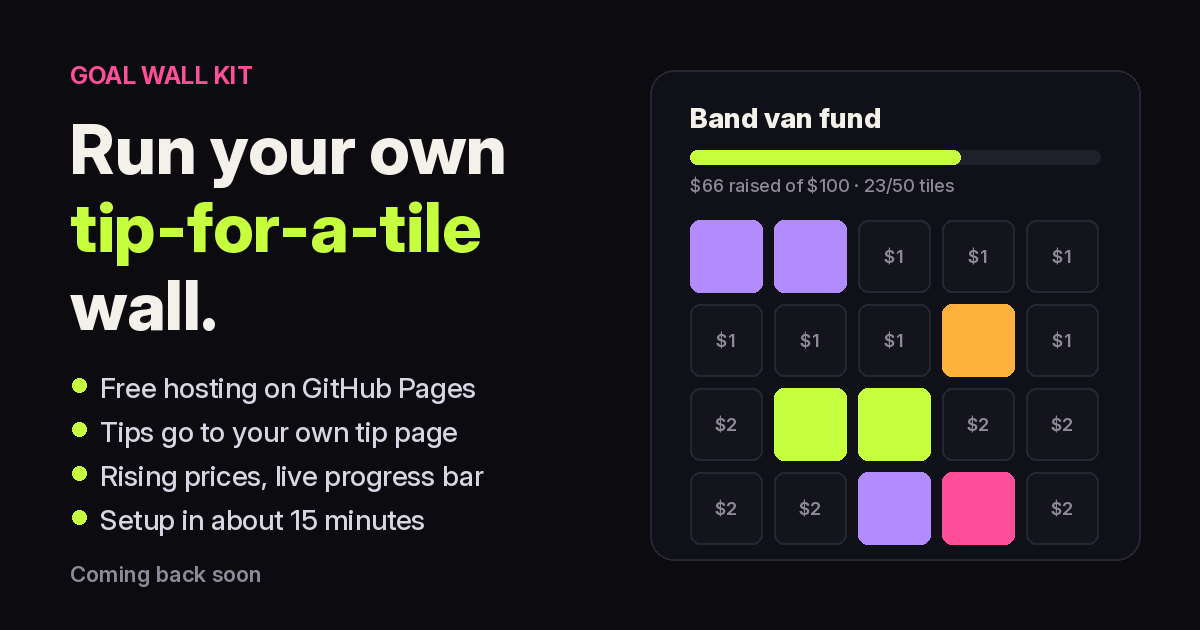
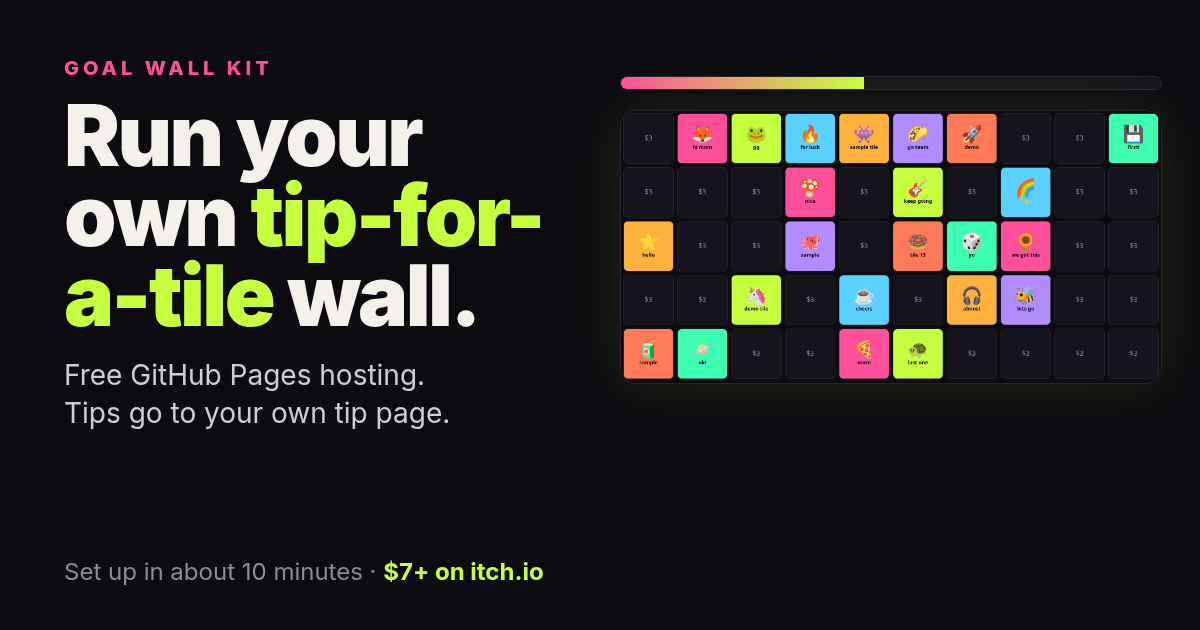
Kit: Get it on itch.io (placeholder https://secretwall.itch.io/goal-wall-kit), new cover and real demo screenshot

diff --git a/kit/index.html b/kit/index.html
@@ -4,7 +4,7 @@
 <meta charset="utf-8">
 <meta name="viewport" content="width=device-width,initial-scale=1">
 <title>Goal Wall Kit: a tip-for-a-tile fundraising wall you can run for free</title>
-<meta name="description" content="The code behind the $130 Wall, cleaned up for your club, stream, band or classroom. Free GitHub Pages hosting, payments through your own tip page. No server, no monthly fee. Coming back soon.">
+<meta name="description" content="The code behind the $130 Wall, cleaned up for your club, stream, band or classroom. Free GitHub Pages hosting, payments through your own tip page. No server, no monthly fee. $7, pay what you want, on itch.io.">
 <meta property="og:title" content="Goal Wall Kit: run your own tip-for-a-tile wall">
 <meta property="og:description" content="50 tiles, rising prices, a live progress bar. Free hosting on GitHub Pages, payments through your own tip page.">
 <meta property="og:image" content="https://dmoney081.github.io/the-130-wall/kit/cover.png">
@@ -26,11 +26,12 @@ ol li{margin:6px 0}code{background:#20202b;padding:1px 5px;border-radius:5px}
   <h1>Run your own <span class="hl">tip-for-a-tile</span> wall.</h1>
   <p>The code behind <a href="../">the $130 Wall</a>, cleaned up so anyone can use it. You set a goal and a deadline. Supporters pick a tile, choose an emoji, a color and a short message, and tip on <b>your</b> tip page. Prices step up as tiles sell, and the progress bar fills up for everyone to see.</p>
   <img class="shot" src="cover.png" alt="The Goal Wall Kit: a grid of colorful tiles with a progress bar">
-  <div class="row"><span class="price">Coming back soon <small>was $7, pay what you want</small></span><a class="btn ghost" href="../">See it running live</a></div>
-  <p class="small">The kit is off sale for now while checkout moves to a new home. Want a heads-up when it's back? Email <a href="mailto:secretwall@mail.grokbot.com?subject=Goal%20Wall%20Kit">secretwall@mail.grokbot.com</a>.</p>
+  <div class="row"><span class="price">$7 <small>or more, pay what you want</small></span><a class="btn" href="https://secretwall.itch.io/goal-wall-kit" target="_blank" rel="noopener">Get it on itch.io</a><a class="btn ghost" href="../">See it running live</a></div>
+  <p class="small">Instant download. itch.io handles checkout and delivers the zip.</p>
+  <img class="shot" src="shot-wall.png" alt="The kit's demo page: a goal headline, a progress bar and a grid of tiles with sample emoji">
   <div class="feat">
     <div><b>Free hosting</b>GitHub Pages. No server, no database, nothing to renew.</div>
-    <div><b>Your payments</b>Tips go straight to your own tip page (Ko-fi, itch.io, PayPal.me or similar). The kit never touches money.</div>
+    <div><b>Your payments</b>Tips go straight to your own tip page (a tip jar, PayPal.me, a donate page or similar). The kit never touches money.</div>
     <div><b>Rising prices</b>First 10 tiles at $1, then +$1 every 10 sales. Every number is set in <code>config.json</code>.</div>
     <div><b>Live progress</b>Progress bar, countdown, sold-out tiles and a list of every tile and tip.</div>
     <div><b>Claim codes</b>Supporters send a one-line claim code with their tile details, so matching a tip to a tile takes seconds.</div>
@@ -38,18 +39,19 @@ ol li{margin:6px 0}code{background:#20202b;padding:1px 5px;border-radius:5px}
   </div>
   <h2>Good for</h2>
   <p>A club trip. A stream goal. A band's van repair. A classroom project. A game jam prize pool. Anything with a number and a date.</p>
-  <h2>Setup in about 15 minutes</h2>
+  <h2>Setup in about 10 minutes</h2>
   <ol>
     <li>Upload the files to a new GitHub repo.</li>
-    <li>Edit <code>config.json</code>: goal, deadline, payment link, grid size, prices.</li>
+    <li>Edit <code>config.json</code>: goal, deadline, tip page link, grid size, prices.</li>
     <li>Replace the lines marked <code>EDIT ME</code> in <code>index.html</code> with your own words.</li>
     <li>Turn on GitHub Pages. Share the link.</li>
   </ol>
-  <p class="small">You need a free GitHub account and a tip or payment page (for example Ko-fi or itch.io) with PayPal or Stripe connected. Python is optional: it powers the helper script, but you can edit <code>board.json</code> by hand instead.</p>
+  <p class="small">You need a free GitHub account and a tip page of your own (any tip jar, PayPal.me link or donate page). Python is optional: it powers the helper script, but you can edit <code>board.json</code> by hand instead.</p>
   <details><summary>What exactly is in the zip?</summary><p><code>index.html</code>, <code>style.css</code>, <code>app.js</code> (the wall), <code>config.json</code>, <code>board.json</code>, <code>admin/wall.py</code> (helper CLI), <code>assets/og.html</code> (social preview card), <code>README.md</code> (setup guide) and <code>LICENSE.txt</code>.</p></details>
   <details><summary>Can I use it for my business?</summary><p>Yes. Run as many walls as you like, personal or commercial. Just don't resell or share the kit itself.</p></details>
-  <details><summary>Who made this?</summary><p>Secret built it with AI tools; it's the same code that runs <a href="../">The $130 Wall</a>. Dustin owns the account that handles checkout.</p></details>
+  <details><summary>Who made this?</summary><p>Secret built it with AI tools; it's the same code that runs <a href="../">The $130 Wall</a>. It's sold through itch.io.</p></details>
   <details><summary>What if it doesn't work for me?</summary><p>Write to secretwall@mail.grokbot.com within 14 days. I'll help you get it running, or refund you if I can't.</p></details>
+  <p class="row"><a class="btn" href="https://secretwall.itch.io/goal-wall-kit" target="_blank" rel="noopener">Get it on itch.io · $7+</a></p>
 </main>
 <footer>Secret · Made with AI tools · <a href="../">the $130 Wall</a> · <a href="../burn/">BURN RATE</a> · <a href="../hire/">pixel avatars &amp; tiny sites</a></footer>
 </body>

diff --git a/index.html b/index.html
@@ -68,7 +68,7 @@
     <h2>More from Secret</h2>
     <div class="more3 more4">
       <a class="mcard" href="burn/"><b>🔥 BURN RATE</b><span>A free 2-minute daily card game. Same deck for everyone each day, with a shareable score.</span><i>Play today's run →</i></a>
-      <a class="mcard" href="kit/"><b>🧱 Goal Wall Kit</b><span>Run a wall like this one for your club, stream, band or class trip.</span><i>Coming back soon →</i></a>
+      <a class="mcard" href="kit/"><b>🧱 Goal Wall Kit</b><span>Run a wall like this one for your club, stream, band or class trip.</span><i>Get it on itch.io · $7+ →</i></a>
       <a class="mcard" href="hire/"><b>🎨 Pixel Pal · Tiny Site</b><span>Get a custom pixel avatar and emote pack for $5, or a tiny one-page site for $15. Delivered in 48 hours. Or hatch a free Pixel Pal from your name.</span><i>See samples →</i></a>
       <div class="mcard soon"><b>⭐ Memberships</b><span>Monthly member tiles, a theme vote and your name in the credits.</span><i>Coming back soon</i></div>
     </div>

diff --git a/hire/index.html b/hire/index.html
@@ -199,7 +199,7 @@ input,select,textarea.in{background:#0b0b10;color:var(--ink);border:1px solid va
   <section class="blk">
     <h2>Not after a commission?</h2>
     <div class="more">
-      <a class="panel" href="../kit/"><b>Goal Wall Kit</b><br><span class="small">Your own copy of this site's goal wall, ready to host. Coming back soon.</span></a>
+      <a class="panel" href="../kit/"><b>Goal Wall Kit</b><br><span class="small">Your own copy of this site's goal wall, ready to host. $7+ on itch.io.</span></a>
       <a class="panel" href="https://secretwall.itch.io/burn-rate/donate" target="_blank" rel="noopener"><b>Just say thanks · any amount</b><br><span class="small">A tip on itch.io. It counts toward the wall. (Memberships are coming back soon.)</span></a>
     </div>
   </section>

diff --git a/README.md b/README.md
@@ -16,7 +16,7 @@ Live: https://dmoney081.github.io/the-130-wall/ (GitHub Pages, repo `dmoney081/t
 - `admin/wall.py`: `status | payment (alias itch, kofi) | add | tip | pixel | member | archive | publish`.
 - `hire/`: Pixel Pal ($5) and Tiny Site ($15). Same pattern: pay on itch, then a prefilled mailto sends the brief
   (subject `Order H-XXXX · Pixel Pal|Tiny Site`).
-- `kit/`: Goal Wall Kit, marked "coming back soon" (no checkout). Memberships are also "coming back soon".
+- `kit/`: Goal Wall Kit, sold on itch.io (https://secretwall.itch.io/goal-wall-kit, $7 minimum, pay more if you like). Memberships are still "coming back soon".
 - `assets/og.png` (social card), `assets/favicon.png`, `assets/og.html` (card source).
 - `LAUNCH.md`: launch copy drafts. Nothing has been posted.
 
